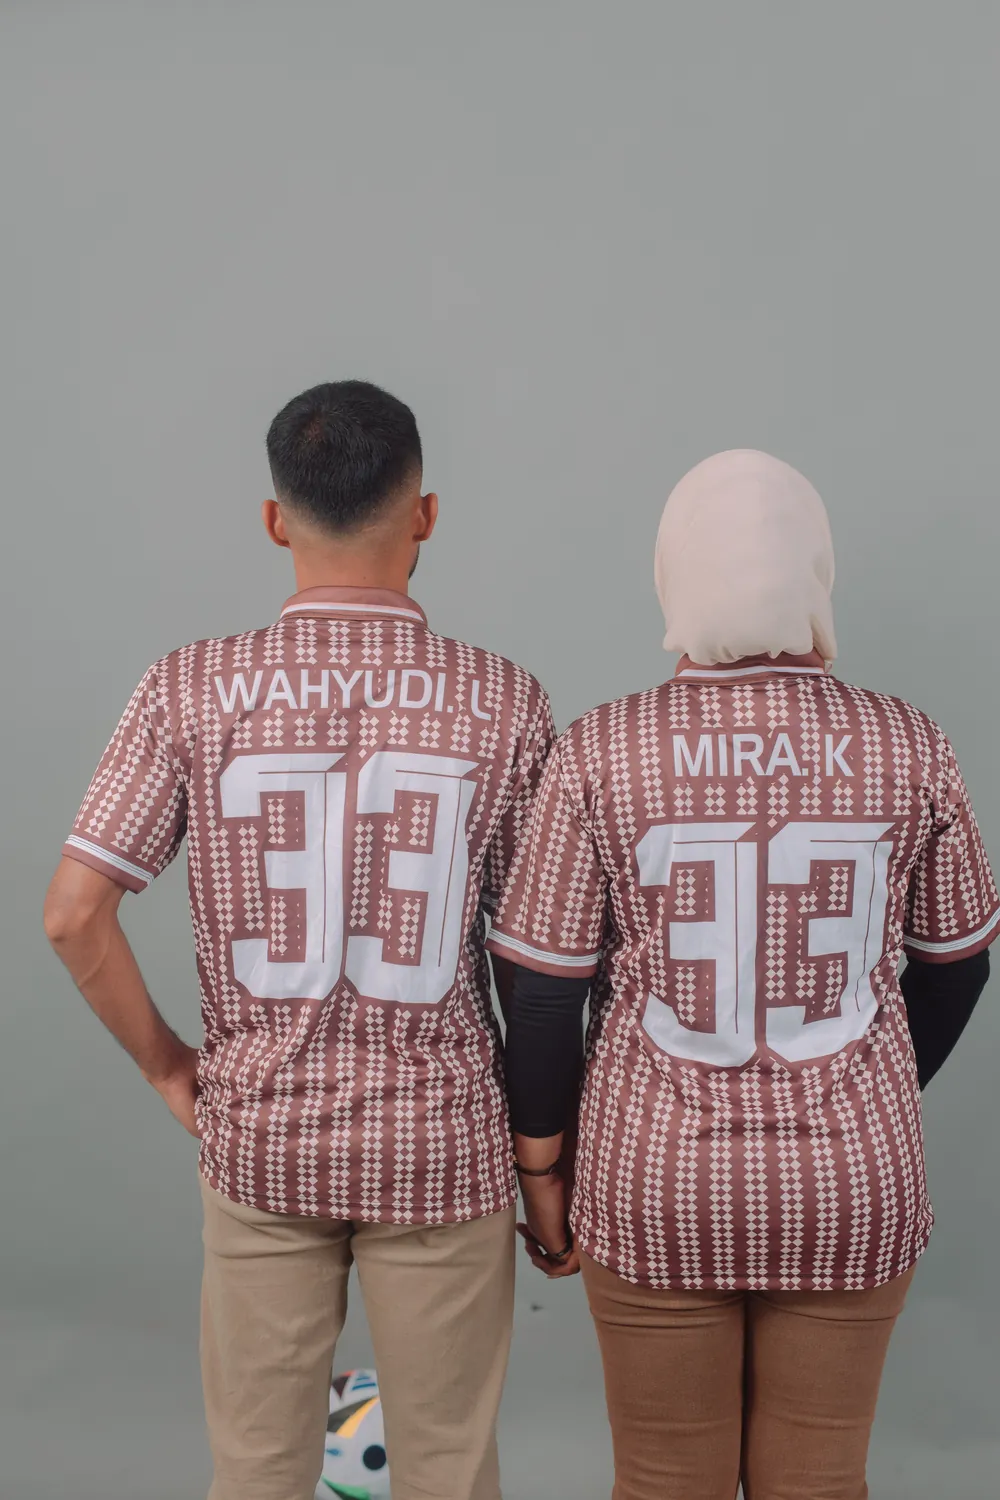
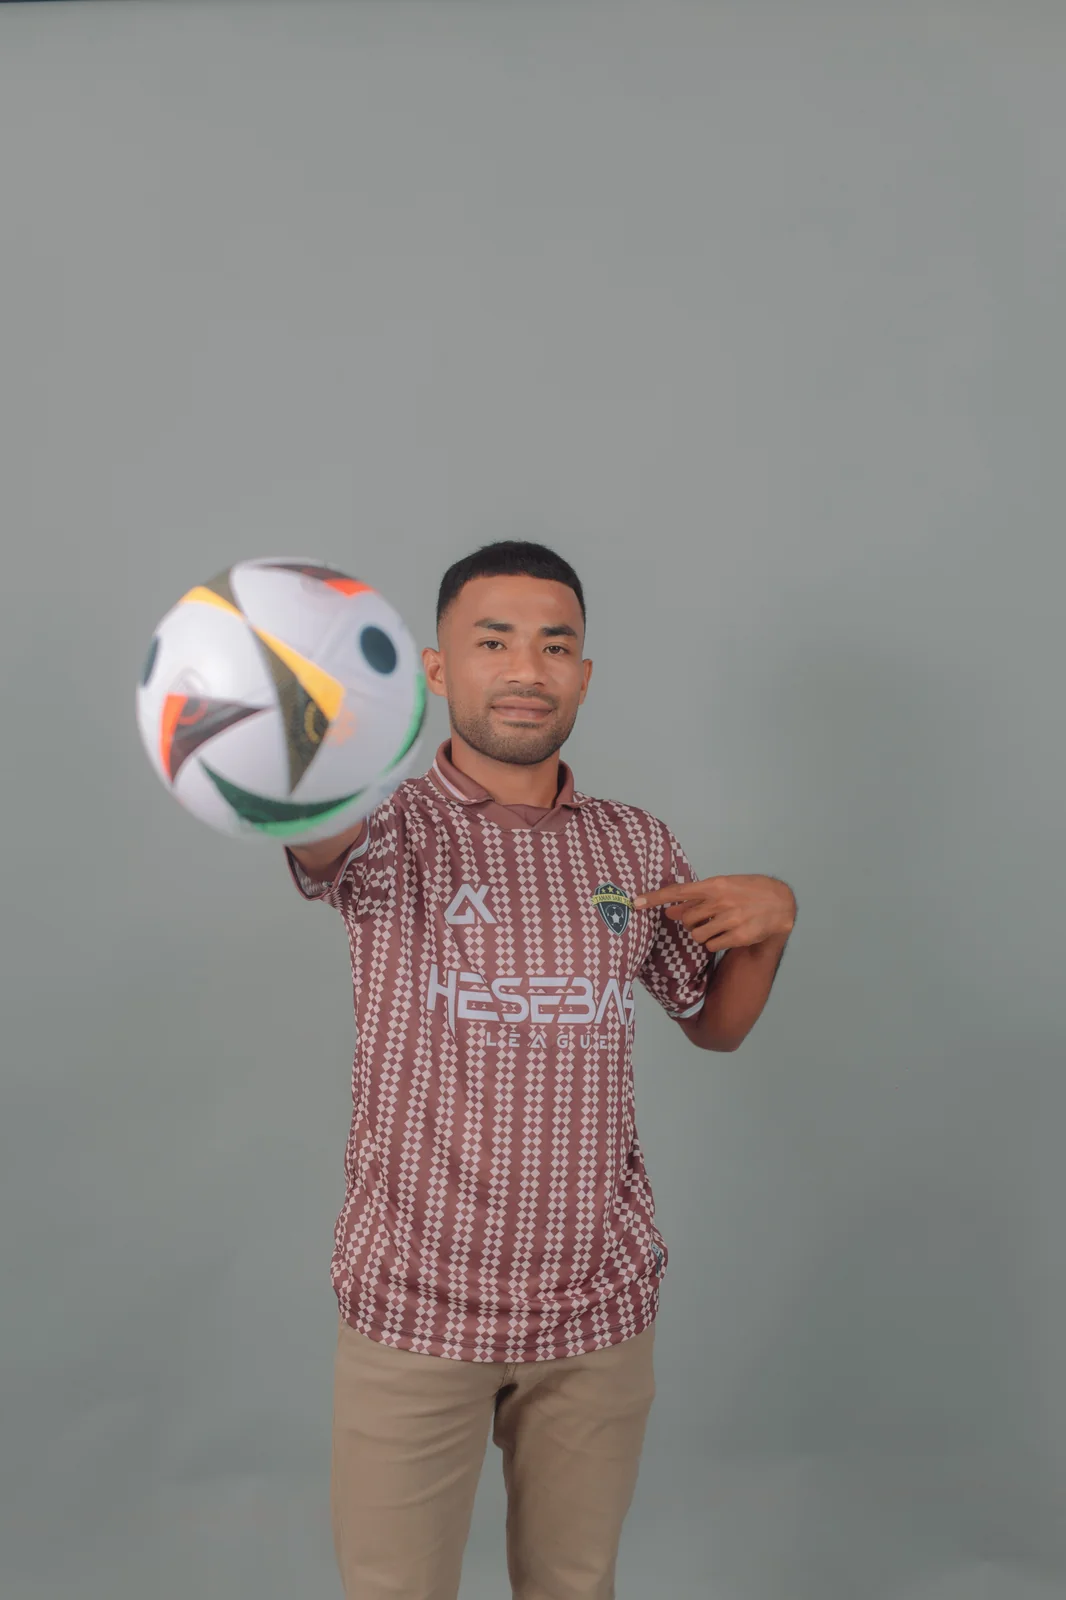
Delete 1C8A4207 and 1C8A4208 and regenerate story_4 from 1C8A4206

diff --git a/src/data/photoLibrary.js b/src/data/photoLibrary.js
@@ -1,2 +1,2 @@
-// Approved Prewedding Photos Library (Blacklist Excluded)
-export const photoLibrary = ['/photos/wanita.webp', '/photos/pria.webp', '/photos/1C8A4172.webp', '/photos/1C8A4173.webp', '/photos/1C8A4175.webp', '/photos/1C8A4176.webp', '/photos/1C8A4177.webp', '/photos/1C8A4178.webp', '/photos/1C8A4182.webp', '/photos/1C8A4183.webp', '/photos/1C8A4184.webp', '/photos/1C8A4188.webp', '/photos/1C8A4190.webp', '/photos/1C8A4191.webp', '/photos/1C8A4194.webp', '/photos/1C8A4195.webp', '/photos/1C8A4196.webp', '/photos/1C8A4198.webp', '/photos/1C8A4199.webp', '/photos/1C8A4200.webp', '/photos/1C8A4201.webp', '/photos/1C8A4202.webp', '/photos/1C8A4203.webp', '/photos/1C8A4204.webp', '/photos/1C8A4205.webp', '/photos/1C8A4206.webp', '/photos/1C8A4207.webp', '/photos/1C8A4208.webp', '/photos/1C8A4209.webp', '/photos/1C8A4210.webp', '/photos/1C8A4214.webp', '/photos/1C8A4215.webp', '/photos/1C8A4216.webp', '/photos/1C8A4220.webp', '/photos/1C8A4222.webp', '/photos/1C8A4224.webp', '/photos/1C8A4226.webp', '/photos/1C8A4227.webp', '/photos/1C8A4230.webp', '/photos/1C8A4231.webp', '/photos/1C8A4232.webp', '/photos/1C8A4233.webp', '/photos/1C8A4236.webp', '/photos/1C8A4241.webp', '/photos/1C8A4242.webp', '/photos/1C8A4250.webp', '/photos/pria.webp', '/photos/wanita.webp'];
+// Approved Prewedding Photos Library (10 Blacklist Photos Excluded)
+export const photoLibrary = ['/photos/wanita.webp', '/photos/pria.webp', '/photos/1C8A4172.webp', '/photos/1C8A4173.webp', '/photos/1C8A4175.webp', '/photos/1C8A4176.webp', '/photos/1C8A4177.webp', '/photos/1C8A4178.webp', '/photos/1C8A4182.webp', '/photos/1C8A4183.webp', '/photos/1C8A4184.webp', '/photos/1C8A4188.webp', '/photos/1C8A4190.webp', '/photos/1C8A4191.webp', '/photos/1C8A4194.webp', '/photos/1C8A4195.webp', '/photos/1C8A4196.webp', '/photos/1C8A4198.webp', '/photos/1C8A4199.webp', '/photos/1C8A4200.webp', '/photos/1C8A4201.webp', '/photos/1C8A4202.webp', '/photos/1C8A4203.webp', '/photos/1C8A4204.webp', '/photos/1C8A4205.webp', '/photos/1C8A4206.webp', '/photos/1C8A4209.webp', '/photos/1C8A4210.webp', '/photos/1C8A4214.webp', '/photos/1C8A4215.webp', '/photos/1C8A4216.webp', '/photos/1C8A4220.webp', '/photos/1C8A4222.webp', '/photos/1C8A4224.webp', '/photos/1C8A4226.webp', '/photos/1C8A4227.webp', '/photos/1C8A4230.webp', '/photos/1C8A4231.webp', '/photos/1C8A4232.webp', '/photos/1C8A4233.webp', '/photos/1C8A4236.webp', '/photos/1C8A4241.webp', '/photos/1C8A4242.webp', '/photos/1C8A4250.webp', '/photos/pria.webp', '/photos/wanita.webp'];

diff --git a/src/App.jsx b/src/App.jsx
@@ -17,7 +17,7 @@ import AdminDashboard from './components/AdminDashboard';
 import AdminLockModal from './components/AdminLockModal';
 import { Home, Users, Calendar, Image, MessageSquare, Settings } from 'lucide-react';
 
-const STORAGE_KEY = 'wedding_data_mira_wahyudi_v7';
+const STORAGE_KEY = 'wedding_data_mira_wahyudi_v8';
 const SESSION_AUTH_KEY = 'wedding_admin_authenticated';
 
 export default function App() {
